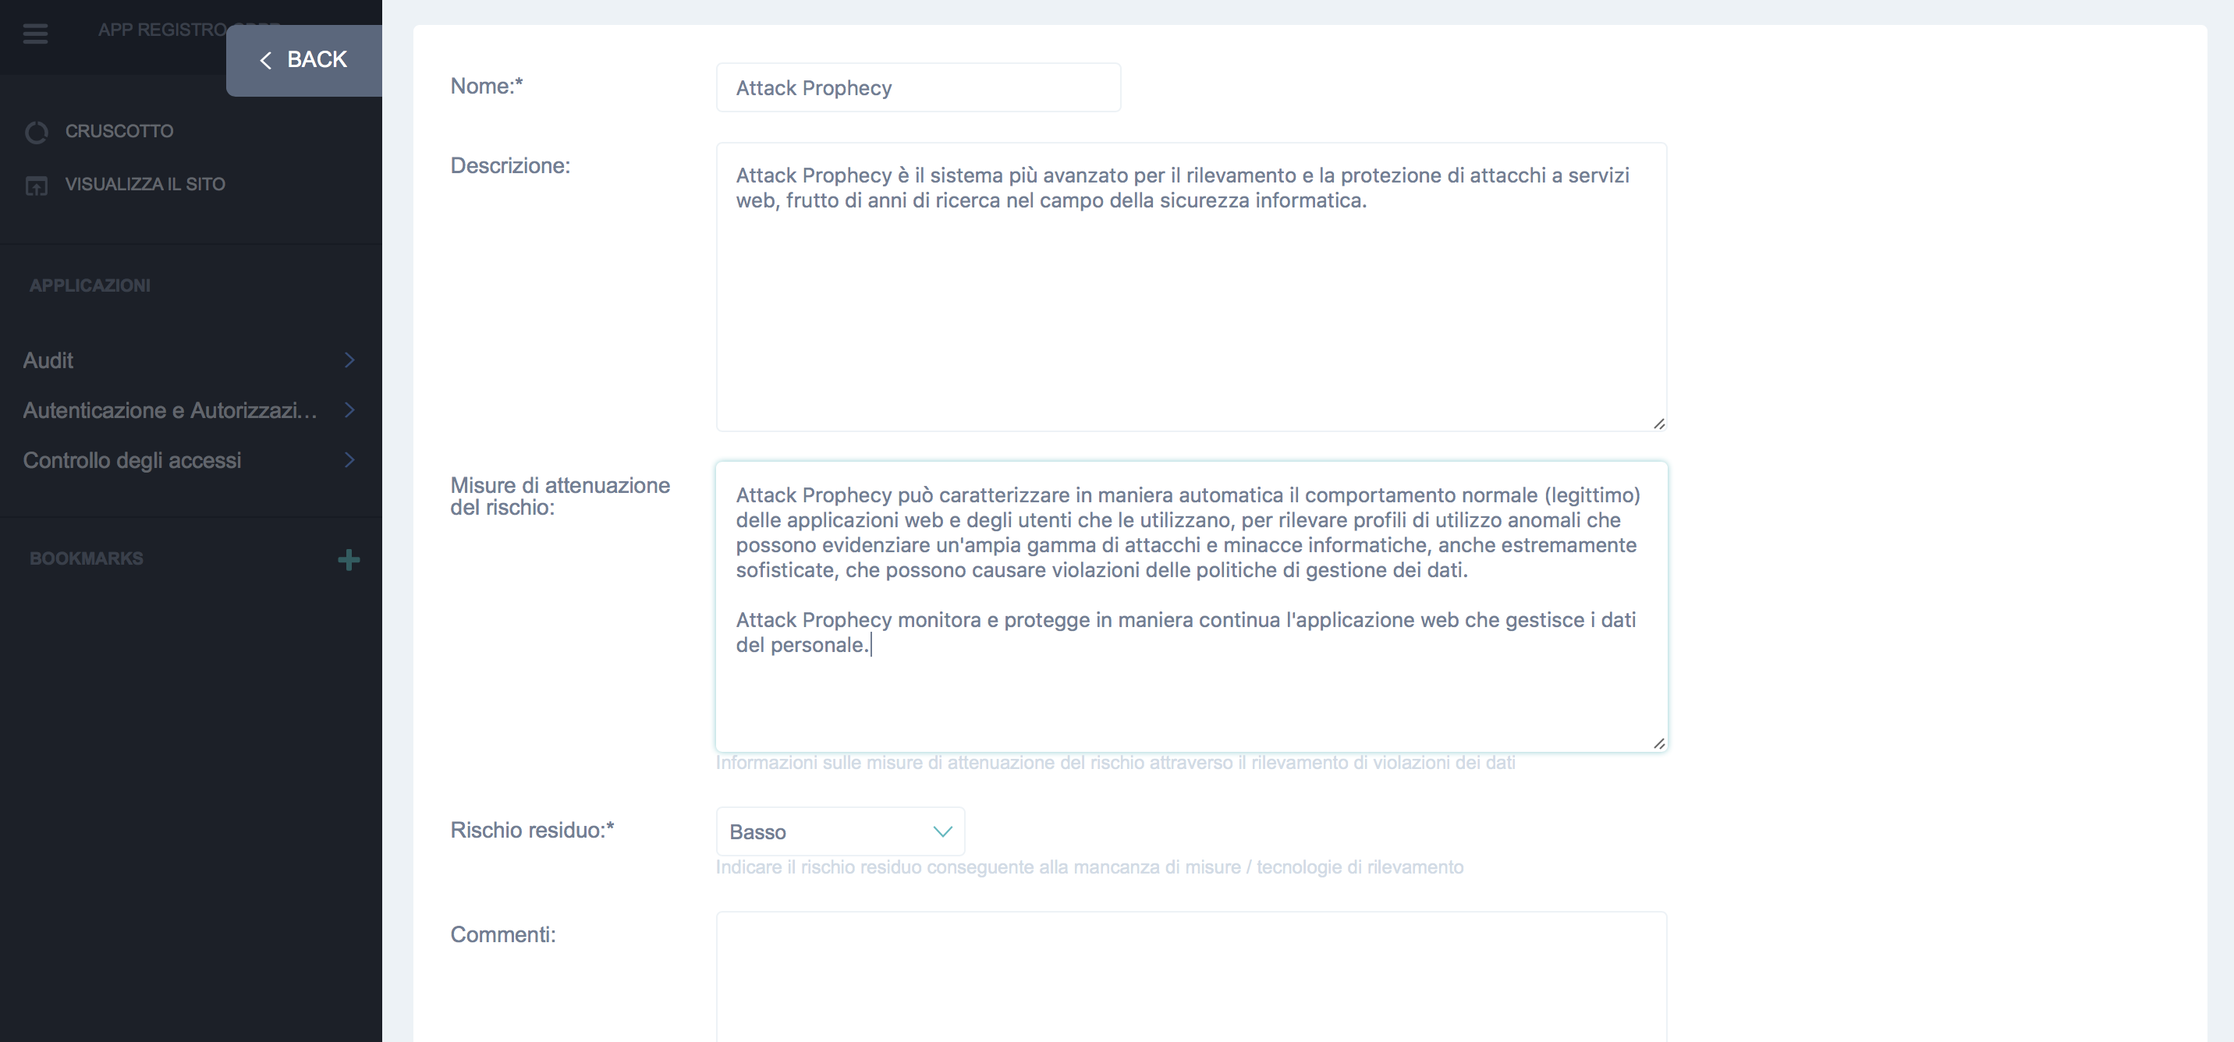
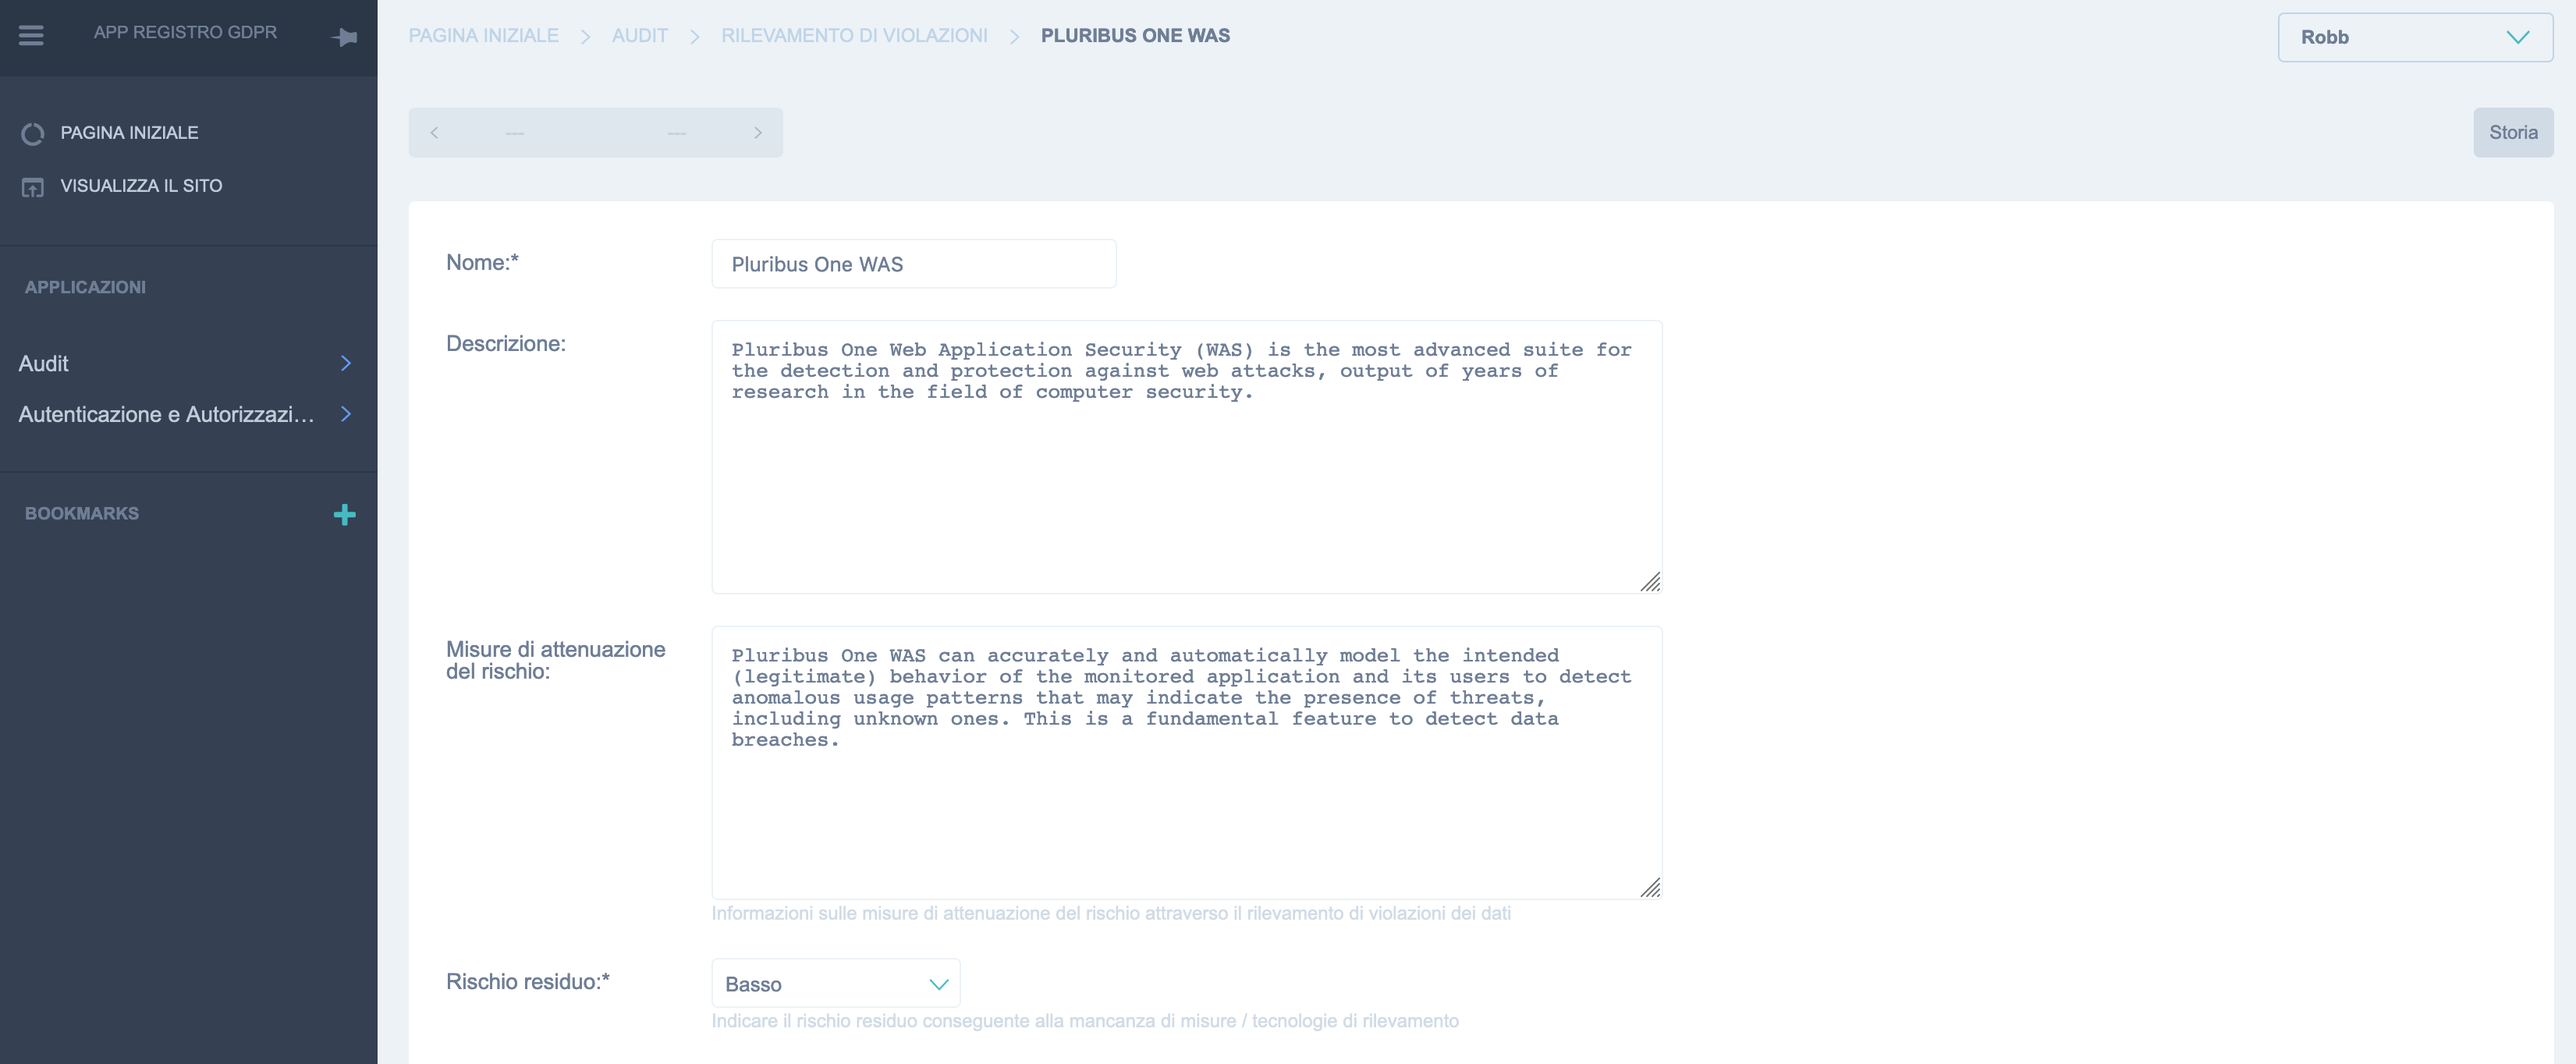
doc update

diff --git a/audit/templates/breach_detection.html b/audit/templates/breach_detection.html
@@ -35,14 +35,14 @@
     <div class="card-body">
         <p>{% blocktrans %}In the edit page of the data audit, just click on the add (+) icon for the field "data breach detection".
             Then, you can insert all details about the data breach detection technique. In this case, data breach detection is
-            handled by <a href="www.attack-prophecy.it">Attack Prophecy</a>, an advanced software by Pluribus One for the detection of attacks against web services.
+            handled by <a href="https://www.pluribus-one.it/it/prodotti/web-application-security">Pluribus One WAS</a>, an advanced software by Pluribus One for the detection of attacks against web services.
         {% endblocktrans %}
         </p>
         <p>{% blocktrans %}Please note that in general, for each data breach detection technique,
             you should specify:
             <ul>
                 <li><strong>How breach detection is possible</strong>: how unexpected data breaches can be detected.
-                    This phase usually requires sophisticated systems such as Attack Prophecy, capable to detect <em>unexpected</em> behavior of your applications and users.</li>
+                    This phase usually requires sophisticated systems such as Pluribus One WAS, capable to detect <em>unexpected</em> behavior of your applications and users.</li>
                 <li><strong>Residual risk (of missing data breaches)</strong>: a residual risk for the data breach detection, that
             is, an evaluation of the residual risk of <em>missing</em> data breaches given the detection technique that has been put in place.
             This should be the output of a detailed risk analysis that evaluates likelihood and impact of undetected data breaches for the considered data audit
@@ -51,7 +51,7 @@
         {% endblocktrans %}
         </p>
         <div class="alert alert-info" role="alert">
-            {% trans "In this example, we create a data breach detection <strong>Attack Prophecy</strong> and associate it to the Data Audit <strong>Identity Documents</strong>" %}.
+            {% trans "In this example, we create a data breach detection <strong>Pluribus One WAS</strong> and associate it to the Data Audit <strong>Identity Documents</strong>" %}.
             {% trans 'Please note that many other data audits can be associated with the same data breach detection tool, e.g., if the tool protects other applications that handle different data.' %}
         </div>
     </div>

diff --git a/audit/templates/breach_response.html b/audit/templates/breach_response.html
@@ -36,7 +36,7 @@
     <div class="card-body">
         <p>{% blocktrans %}In the edit page of the data audit, just click on the add (+) icon for the field "incident response plan".
             Then, you can insert all details about the incident response plan. In this case, incident response is
-            helped by <a href="www.attack-prophecy.it">Attack Prophecy</a>, thanks to its virtual patching mechanism that also covers zero-day (never-before-seen)
+            helped by <a href="https://www.pluribus-one.it/it/prodotti/web-application-security">Pluribus One WAS</a>, thanks to its virtual patching mechanism that also covers zero-day (never-before-seen)
             attacks that may lead to data breaches.
             {% endblocktrans %}
         </p>
@@ -44,7 +44,7 @@
             you should specify:
             <ul>
                 <li><strong>How breach response is possible</strong>: how data breaches can be effectively handled.
-                    This phase usually prefigures a well-suited recovery plan, and systems such as Attack Prophecy, capable to provide protection against <em>unexpected</em> behavior of your applications and users.</li>
+                    This phase usually prefigures a well-suited recovery plan, and systems such as Pluribus One WAS, capable to provide protection against <em>unexpected</em> behavior of your applications and users.</li>
                 <li><strong>Data Breach Notification</strong>: notification procedures to the involved parties, including supervisory authorities.</li>
                 <li><strong>Residual risk (of inadequate/missing response to data breaches)</strong>: that
             is, an evaluation of the residual risk of <em>not responding properly</em> to data breaches given the specific incident response plan.
@@ -54,7 +54,7 @@
         {% endblocktrans %}
         </p>
         <div class="alert alert-info" role="alert">
-            {% blocktrans %}In this example, we create an incident response plan that employs <strong>Attack Prophecy</strong> to create
+            {% blocktrans %}In this example, we create an incident response plan that employs <strong>Pluribus One WAS</strong> to create
             virtual patches if intrusive events are detected.
             Additionaly, an (encrypted) backup of Virtual Machines and Data is used for recovery/investigation purposes.
 
